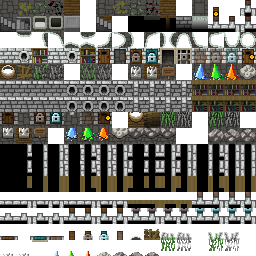
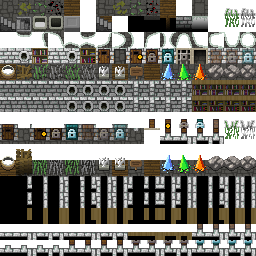
v1.2.3: rearranged tilesheets

diff --git a/core/src/main/java/com/shatteredpixel/shatteredpixeldungeon/tiles/DungeonTileSheet.java b/core/src/main/java/com/shatteredpixel/shatteredpixeldungeon/tiles/DungeonTileSheet.java
@@ -51,7 +51,7 @@ public class DungeonTileSheet {
 	 * Floor Tiles
 	 **********************************************************************/
 
-	private static final int GROUND         =                               xy(1, 1);   //24 slots
+	private static final int GROUND         =                               xy(1, 1);   //28 slots
 	public static final int FLOOR           = GROUND +0;
 	public static final int FLOOR_DECO      = GROUND +1;
 	public static final int GRASS           = GROUND +2;
@@ -74,7 +74,7 @@ public class DungeonTileSheet {
 
 	public static final int ENTRANCE_SP     = GROUND +22;
 
-	public static final int CHASM           =                               xy(9, 2);   //8 slots
+	public static final int CHASM           =                               xy(9, 2);   //6 slots
 	//chasm stitching visuals...
 	public static final int CHASM_FLOOR     = CHASM+1;
 	public static final int CHASM_FLOOR_SP  = CHASM+2;
@@ -198,14 +198,14 @@ public class DungeonTileSheet {
 
 	public static final int FLAT_DOOR           = FLAT_WALLS+6;
 	public static final int FLAT_DOOR_OPEN      = FLAT_WALLS+7;
-	public static final int FLAT_DOOR_LOCKED    = FLAT_WALLS+8;
-	public static final int FLAT_DOOR_CRYSTAL   = FLAT_WALLS+9;
-	public static final int UNLOCKED_EXIT       = FLAT_WALLS+10;
+	public static final int FLAT_DOOR_COIN      = FLAT_WALLS+8;
+	public static final int FLAT_DOOR_LOCKED    = FLAT_WALLS+9;
+	public static final int FLAT_DOOR_CRYSTAL   = FLAT_WALLS+10;
 	public static final int LOCKED_EXIT         = FLAT_WALLS+11;
-	public static final int FLAT_DOOR_SECRET    = FLAT_WALLS+12;
-	public static final int FLAT_LOCKED_DOOR_SECRET     = FLAT_WALLS+13;
-	public static final int FLAT_CRYSTAL_DOOR_SECRET    = FLAT_WALLS+14;
-	public static final int FLAT_DOOR_COIN      = FLAT_WALLS+15;
+	public static final int UNLOCKED_EXIT       = FLAT_WALLS+12;
+	public static final int FLAT_DOOR_SECRET    = FLAT_WALLS+13;
+	public static final int FLAT_LOCKED_DOOR_SECRET     = FLAT_WALLS+14;
+	public static final int FLAT_CRYSTAL_DOOR_SECRET    = FLAT_WALLS+15;
 
 	public static final int FLAT_OTHER          =                           xy(1, 5);   //16 slots
 	public static final int FLAT_ALCHEMY_POT    = FLAT_OTHER+0;
@@ -213,20 +213,20 @@ public class DungeonTileSheet {
 	public static final int FLAT_HIGH_GRASS     = FLAT_OTHER+2;
 	public static final int FLAT_FURROWED_GRASS = FLAT_OTHER+3;
 
-	public static final int FLAT_HIGH_GRASS_ALT = FLAT_OTHER+5;
-	public static final int FLAT_FURROWED_ALT   = FLAT_OTHER+6;
+	public static final int FLAT_HIGH_GRASS_ALT = FLAT_OTHER+4;
+	public static final int FLAT_FURROWED_ALT   = FLAT_OTHER+5;
 
-	public static final int FLAT_STATUE         = FLAT_OTHER+8;
-	public static final int FLAT_STATUE_SP      = FLAT_OTHER+9;
-	public static final int FLAT_SIGN           = FLAT_OTHER+10;
-	public static final int FLAT_SIGN_SP        = FLAT_OTHER+10;
+	public static final int FLAT_STATUE         = FLAT_OTHER+6;
+	public static final int FLAT_STATUE_SP      = FLAT_OTHER+7;
+	public static final int FLAT_SIGN           = FLAT_OTHER+8;
+	public static final int FLAT_SIGN_SP        = FLAT_OTHER+9;
 
-	public static final int FLAT_MINE_CRYSTAL         = FLAT_OTHER+12;
-	public static final int FLAT_MINE_CRYSTAL_ALT     = FLAT_OTHER+13;
-	public static final int FLAT_MINE_CRYSTAL_ALT_2   = FLAT_OTHER+14;
-	public static final int FLAT_MINE_BOULDER         = 128+13;
-	public static final int FLAT_MINE_BOULDER_ALT     = 128+14;
-	public static final int FLAT_MINE_BOULDER_ALT_2   = 128+15;
+	public static final int FLAT_MINE_CRYSTAL         = FLAT_OTHER+10;
+	public static final int FLAT_MINE_CRYSTAL_ALT     = FLAT_OTHER+11;
+	public static final int FLAT_MINE_CRYSTAL_ALT_2   = FLAT_OTHER+12;
+	public static final int FLAT_MINE_BOULDER         = FLAT_OTHER+13;
+	public static final int FLAT_MINE_BOULDER_ALT     = FLAT_OTHER+14;
+	public static final int FLAT_MINE_BOULDER_ALT_2   = FLAT_OTHER+15;
 
 	/**********************************************************************
 	 * Raised Tiles, Lower Layer
@@ -277,15 +277,17 @@ public class DungeonTileSheet {
 		return result;
 	}
 
-	private static final int RAISED_DOORS           =                       xy(1, 8);  //8 slots
+	private static final int RAISED_DOORS           =                       xy(1, 9);  //9 slots
 	public static final int RAISED_DOOR             = RAISED_DOORS+0;
 	public static final int RAISED_DOOR_OPEN        = RAISED_DOORS+1;
-	public static final int RAISED_DOOR_LOCKED      = RAISED_DOORS+2;
-	public static final int RAISED_DOOR_CRYSTAL     = RAISED_DOORS+3;
+	public static final int RAISED_DOOR_COIN        = RAISED_DOORS+2;
+	public static final int RAISED_DOOR_LOCKED      = RAISED_DOORS+3;
+	public static final int RAISED_DOOR_CRYSTAL     = RAISED_DOORS+4;
 	public static final int RAISED_DOOR_SECRET		= RAISED_DOORS+5;
-	public static final int RAISED_DOOR_COIN        = RAISED_DOORS+6;
+	public static final int RAISED_DOOR_SECRET_LOCKED= RAISED_DOORS+6;
+	public static final int RAISED_DOOR_SECRET_CRYSTAL= RAISED_DOORS+7;
 	//floor tile that appears on a top/bottom doorway
-	public static final int RAISED_DOOR_SIDEWAYS    = RAISED_DOORS+4;
+	public static final int RAISED_DOOR_SIDEWAYS    = RAISED_DOORS+8;
 
 
 	public static int getRaisedDoorTile(int tile, int below){
@@ -296,6 +298,8 @@ public class DungeonTileSheet {
 		else if (tile == Terrain.COIN_DOOR)     return DungeonTileSheet.RAISED_DOOR_COIN;
 		else if (tile == Terrain.LOCKED_DOOR)   return DungeonTileSheet.RAISED_DOOR_LOCKED;
 		else if (tile == Terrain.CRYSTAL_DOOR)  return DungeonTileSheet.RAISED_DOOR_CRYSTAL;
+		else if (tile == Terrain.SECRET_LOCKED_DOOR) return DungeonTileSheet.RAISED_DOOR_SECRET_LOCKED;
+		else if (tile == Terrain.SECRET_CRYSTAL_DOOR) return DungeonTileSheet.RAISED_DOOR_SECRET_CRYSTAL;
 		else if (TileItem.isSecretDoor(tile))   return DungeonTileSheet.RAISED_DOOR_SECRET;
 		else return -1;
 	}
@@ -311,26 +315,26 @@ public class DungeonTileSheet {
 		return TileItem.isSecretDoor(tile) && CustomDungeon.showHiddenDoors();
 	}
 
-	private static final int RAISED_OTHER           =                       xy(9, 8);  //24 slots
+	private static final int RAISED_OTHER           =                       xy(1, 11);  //16 slots
 	public static final int RAISED_ALCHEMY_POT      = RAISED_OTHER+0;
 	public static final int RAISED_BARRICADE        = RAISED_OTHER+1;
 	public static final int RAISED_HIGH_GRASS       = RAISED_OTHER+2;
 	public static final int RAISED_FURROWED_GRASS   = RAISED_OTHER+3;
 
-	public static final int RAISED_HIGH_GRASS_ALT   = RAISED_OTHER+5;
-	public static final int RAISED_FURROWED_ALT     = RAISED_OTHER+6;
+	public static final int RAISED_HIGH_GRASS_ALT   = RAISED_OTHER+4;
+	public static final int RAISED_FURROWED_ALT     = RAISED_OTHER+5;
 
-	public static final int RAISED_STATUE           = RAISED_OTHER+8;
-	public static final int RAISED_STATUE_SP        = RAISED_OTHER+9;
-	public static final int RAISED_SIGN             = RAISED_OTHER+10;
-	public static final int RAISED_SIGN_SP          = RAISED_OTHER+10;
+	public static final int RAISED_STATUE           = RAISED_OTHER+6;
+	public static final int RAISED_STATUE_SP        = RAISED_OTHER+7;
+	public static final int RAISED_SIGN             = RAISED_OTHER+8;
+	public static final int RAISED_SIGN_SP          = RAISED_OTHER+9;
 
-	public static final int RAISED_MINE_CRYSTAL     = RAISED_OTHER+12;
-	public static final int RAISED_MINE_CRYSTAL_ALT = RAISED_OTHER+13;
-	public static final int RAISED_MINE_CRYSTAL_ALT_2=RAISED_OTHER+14;
-	public static final int RAISED_MINE_BOULDER     = RAISED_OTHER+16;
-	public static final int RAISED_MINE_BOULDER_ALT = RAISED_OTHER+17;
-	public static final int RAISED_MINE_BOULDER_ALT_2=RAISED_OTHER+18;
+	public static final int RAISED_MINE_CRYSTAL     = RAISED_OTHER+10;
+	public static final int RAISED_MINE_CRYSTAL_ALT = RAISED_OTHER+11;
+	public static final int RAISED_MINE_CRYSTAL_ALT_2=RAISED_OTHER+12;
+	public static final int RAISED_MINE_BOULDER     = RAISED_OTHER+13;
+	public static final int RAISED_MINE_BOULDER_ALT = RAISED_OTHER+14;
+	public static final int RAISED_MINE_BOULDER_ALT_2=RAISED_OTHER+15;
 
 
 	/**********************************************************************
@@ -338,7 +342,7 @@ public class DungeonTileSheet {
 	 **********************************************************************/
 
 	//+1 for open right, +2 for open right-below, +4 for open left-below, +8 for open left.
-	public static final int WALLS_INTERNAL              =                   xy(1, 10);  //48 slots
+	public static final int WALLS_INTERNAL              =                   xy(1, 12);  //48 slots
 	private static final int WALL_INTERNAL              = WALLS_INTERNAL+0;
 	private static final int WALL_INTERNAL_DECO         = WALLS_INTERNAL+16;
 	private static final int WALL_INTERNAL_WOODEN       = WALLS_INTERNAL+32;
@@ -359,7 +363,7 @@ public class DungeonTileSheet {
 	}
 
 	//+1 for open to the down-right, +2 for open to the down-left
-	private static final int WALLS_OVERHANG             =                   xy(1, 13);  //32 slots
+	private static final int WALLS_OVERHANG             =                   xy(1, 15);  //32 slots
 	public static final int WALL_OVERHANG                   = WALLS_OVERHANG+0;
 	public static final int WALL_OVERHANG_DECO              = WALLS_OVERHANG+4;
 	public static final int WALL_OVERHANG_WOODEN            = WALLS_OVERHANG+8;
@@ -368,7 +372,8 @@ public class DungeonTileSheet {
 	public static final int DOOR_SIDEWAYS_OVERHANG_CLOSED   = WALLS_OVERHANG+20;
 	public static final int DOOR_SIDEWAYS_OVERHANG_LOCKED   = WALLS_OVERHANG+24;
 	public static final int DOOR_SIDEWAYS_OVERHANG_CRYSTAL  = WALLS_OVERHANG+28;
-	public static final int DOOR_SIDEWAYS_OVERHANG_COIN		= 29;
+	public static final int DOOR_SIDEWAYS_OVERHANG_COIN		= 138;
+	//secret locked and crystal door is missing!
 
 
 	public static int stitchWallOverhangTile(int tile, int rightBelow, int below, int leftBelow){
@@ -394,43 +399,45 @@ public class DungeonTileSheet {
 		return visual;
 	}
 
-	public static final int DOOR_OVERHANG               =                   xy(1, 15);  //8 slots
+	public static final int DOOR_OVERHANG               =                   xy(1, 8);  //14+1 slots
 	public static final int DOOR_OVERHANG_OPEN          = DOOR_OVERHANG+1;
-	public static final int DOOR_OVERHANG_CRYSTAL       = DOOR_OVERHANG+2;
-	public static final int DOOR_OVERHANG_SECRET        = DOOR_OVERHANG+3;
-	public static final int DOOR_SIDEWAYS               = DOOR_OVERHANG+4;
-	public static final int DOOR_SIDEWAYS_LOCKED        = DOOR_OVERHANG+5;
-	public static final int DOOR_SIDEWAYS_CRYSTAL       = DOOR_OVERHANG+6;
-	public static final int DOOR_SIDEWAYS_SECRET        = DOOR_OVERHANG+7;
-	public static final int DOOR_SIDEWAYS_GOLD          = 13;
+	public static final int DOOR_OVERHANG_CRYSTAL       = DOOR_OVERHANG+4;
+	public static final int DOOR_OVERHANG_SECRET        = DOOR_OVERHANG+5;
+	public static final int DOOR_OVERHANG_CRYSTAL_SECRET= DOOR_OVERHANG+7;//tzz
+	public static final int DOOR_SIDEWAYS               = DOOR_OVERHANG+9;
+	public static final int DOOR_SIDEWAYS_COIN		    = DOOR_OVERHANG+10;
+	public static final int DOOR_SIDEWAYS_LOCKED        = DOOR_OVERHANG+11;
+	public static final int DOOR_SIDEWAYS_CRYSTAL       = DOOR_OVERHANG+12;
+	public static final int DOOR_SIDEWAYS_SECRET        = DOOR_OVERHANG+13;
+	//secret locked and crystal door missing!
 	//exit visuals are rendered flat atm, so they actually underhang
-	public static final int EXIT_UNDERHANG              = DOOR_OVERHANG+18;
+	public static final int EXIT_UNDERHANG              = DOOR_OVERHANG+25;
 
 
-	private static final int OTHER_OVERHANG             =                   xy(9, 15);  //24 slots
+	private static final int OTHER_OVERHANG             =                   xy(1, 10);  //16 slots
 	public static final int ALCHEMY_POT_OVERHANG        = OTHER_OVERHANG+0;
 	public static final int BARRICADE_OVERHANG          = OTHER_OVERHANG+1;
-	public static final int HIGH_GRASS_OVERHANG         = OTHER_OVERHANG+2;
-	public static final int FURROWED_OVERHANG           = OTHER_OVERHANG+3;
+	public static final int HIGH_GRASS_OVERHANG         = 14;
+	public static final int FURROWED_OVERHANG           = 15;
 
-	public static final int HIGH_GRASS_OVERHANG_ALT     = OTHER_OVERHANG+5;
-	public static final int FURROWED_OVERHANG_ALT       = OTHER_OVERHANG+6;
+	public static final int HIGH_GRASS_OVERHANG_ALT     = OTHER_OVERHANG-18;
+	public static final int FURROWED_OVERHANG_ALT       = OTHER_OVERHANG-17;
 
-	public static final int STATUE_OVERHANG             = OTHER_OVERHANG+8;
-	public static final int STATUE_SP_OVERHANG          = OTHER_OVERHANG+9;
+	public static final int STATUE_OVERHANG             = OTHER_OVERHANG+6;
+	public static final int STATUE_SP_OVERHANG          = OTHER_OVERHANG+7;
 
-	public static final int MINE_CRYSTAL_OVERHANG       = OTHER_OVERHANG+11;
-	public static final int MINE_CRYSTAL_OVERHANG_ALT   = OTHER_OVERHANG+12;
-	public static final int MINE_CRYSTAL_OVERHANG_ALT_2 = OTHER_OVERHANG+13;
-	public static final int MINE_BOULDER_OVERHANG       = OTHER_OVERHANG+15;
-	public static final int MINE_BOULDER_OVERHANG_ALT   = OTHER_OVERHANG+16;
-	public static final int MINE_BOULDER_OVERHANG_ALT_2 = OTHER_OVERHANG+17;
+	public static final int MINE_CRYSTAL_OVERHANG       = OTHER_OVERHANG+10;
+	public static final int MINE_CRYSTAL_OVERHANG_ALT   = OTHER_OVERHANG+11;
+	public static final int MINE_CRYSTAL_OVERHANG_ALT_2 = OTHER_OVERHANG+12;
+	public static final int MINE_BOULDER_OVERHANG       = OTHER_OVERHANG+13;
+	public static final int MINE_BOULDER_OVERHANG_ALT   = OTHER_OVERHANG+114;
+	public static final int MINE_BOULDER_OVERHANG_ALT_2 = OTHER_OVERHANG+15;
 
-	public static final int HIGH_GRASS_UNDERHANG        = OTHER_OVERHANG+18;
-	public static final int FURROWED_UNDERHANG          = OTHER_OVERHANG+19;
+	public static final int HIGH_GRASS_UNDERHANG        = 30;
+	public static final int FURROWED_UNDERHANG          = 31;
 
-	public static final int HIGH_GRASS_UNDERHANG_ALT    = OTHER_OVERHANG+21;
-	public static final int FURROWED_UNDERHANG_ALT      = OTHER_OVERHANG+22;
+	public static final int HIGH_GRASS_UNDERHANG_ALT    = OTHER_OVERHANG-2;
+	public static final int FURROWED_UNDERHANG_ALT      = OTHER_OVERHANG-1;
 
 	/**********************************************************************
 	 * Logic for the selection of tile visuals

diff --git a/core/src/main/java/com/shatteredpixel/shatteredpixeldungeon/tiles/DungeonWallsTilemap.java b/core/src/main/java/com/shatteredpixel/shatteredpixeldungeon/tiles/DungeonWallsTilemap.java
@@ -65,7 +65,7 @@ public class DungeonWallsTilemap extends DungeonTilemap {
 				} else if (map[pos + mapWidth] == Terrain.LOCKED_DOOR){
 					return DungeonTileSheet.DOOR_SIDEWAYS_LOCKED;
 				} else if (map[pos + mapWidth] == Terrain.COIN_DOOR){
-					return DungeonTileSheet.DOOR_SIDEWAYS_GOLD;
+					return DungeonTileSheet.DOOR_SIDEWAYS_COIN;
 				} else if (map[pos + mapWidth] == Terrain.CRYSTAL_DOOR){
 					return DungeonTileSheet.DOOR_SIDEWAYS_CRYSTAL;
 				} else if (TileItem.isSecretDoor(map[pos + mapWidth])){
@@ -110,6 +110,8 @@ public class DungeonWallsTilemap extends DungeonTilemap {
 			return DungeonTileSheet.DOOR_OVERHANG_OPEN;
 		} else if (Dungeon.level.insideMap(pos) && map[pos+mapWidth] == Terrain.CRYSTAL_DOOR ) {
 			return DungeonTileSheet.DOOR_OVERHANG_CRYSTAL;
+		} else if (Dungeon.level.insideMap(pos) && map[pos+mapWidth] == Terrain.SECRET_CRYSTAL_DOOR && Dungeon.customDungeon.seeSecrets ) {
+			return DungeonTileSheet.DOOR_OVERHANG_CRYSTAL_SECRET;
 		} else if (Dungeon.level.insideMap(pos) && TileItem.isSecretDoor(map[pos+mapWidth]) && Dungeon.customDungeon.seeSecrets ) {
 			return DungeonTileSheet.DOOR_OVERHANG_SECRET;
 		} else if (pos + mapWidth < size && map[pos+mapWidth] == Terrain.STATUE){
